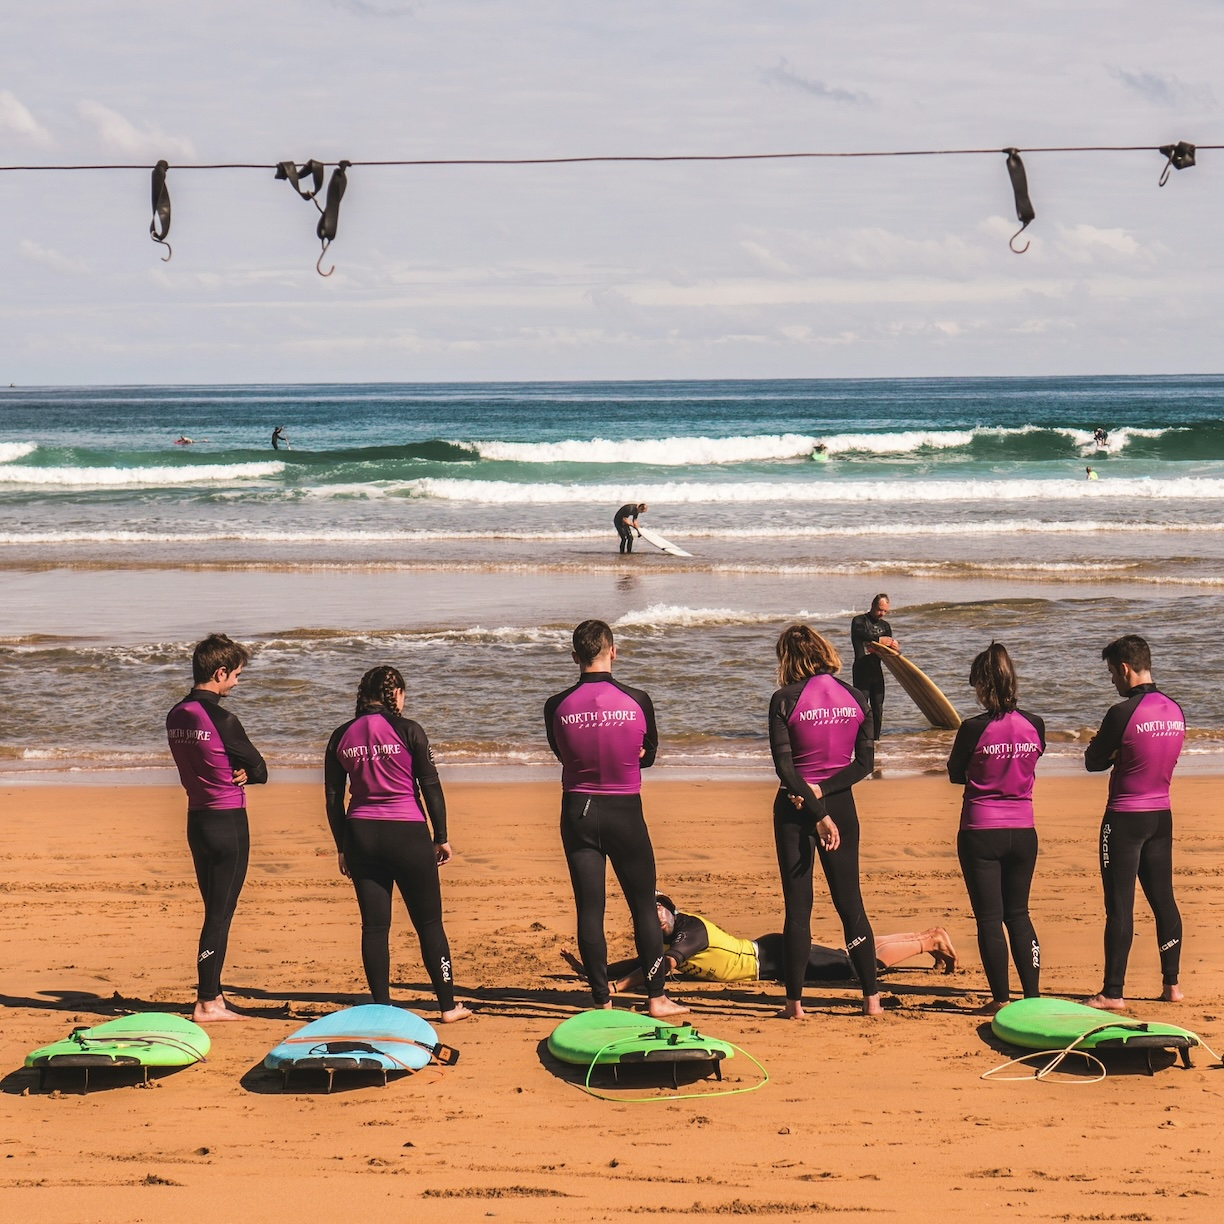
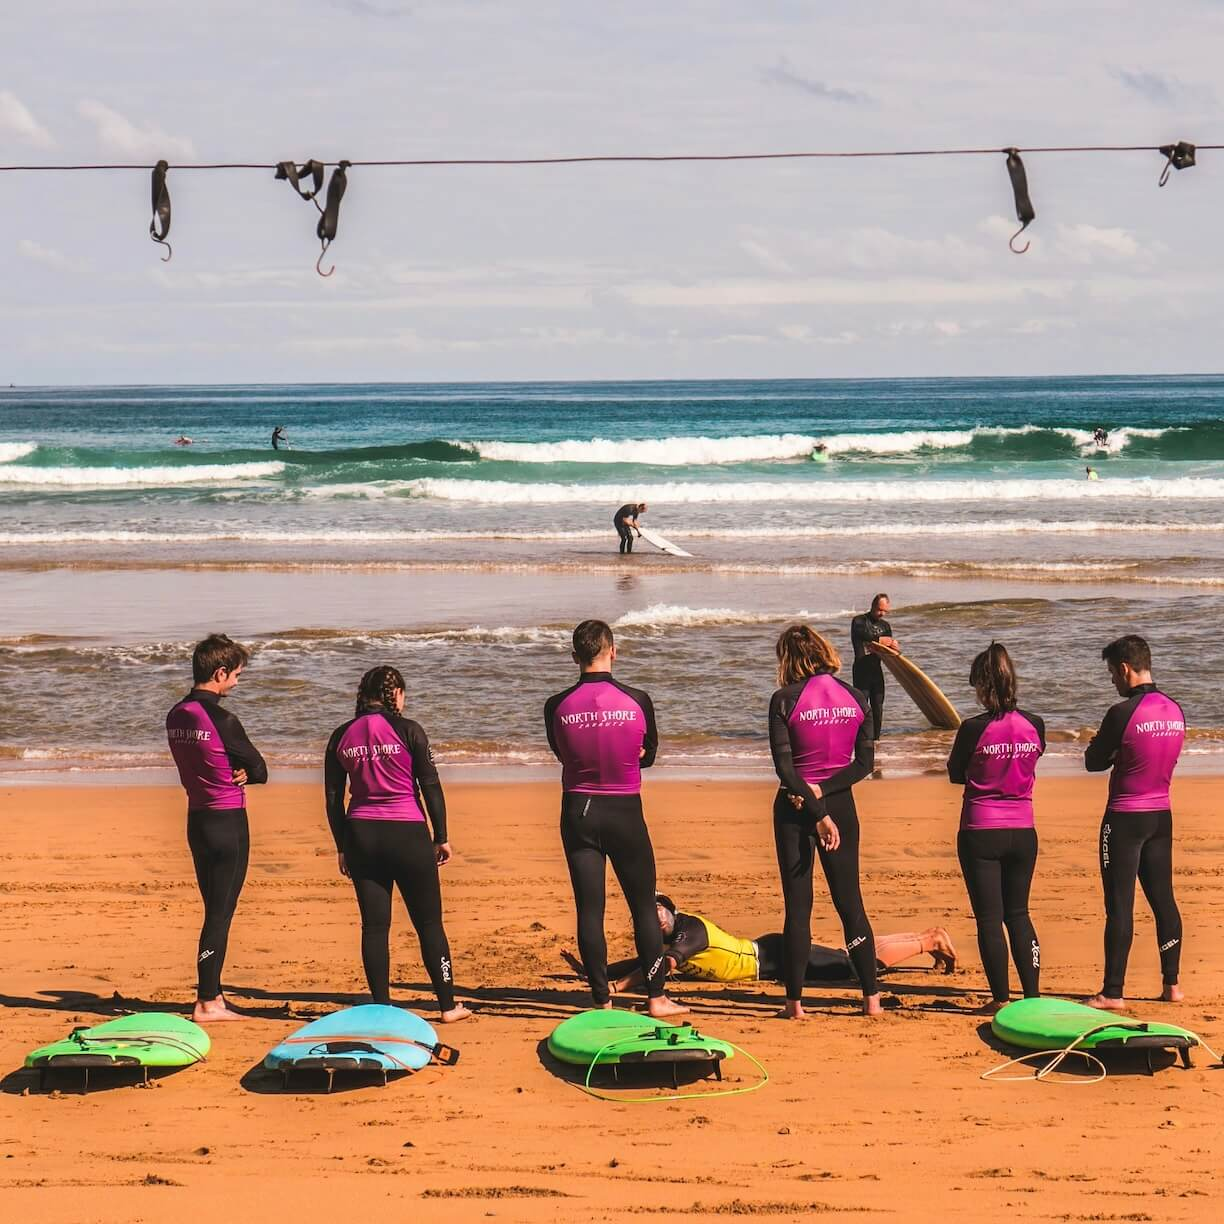
optimized image size for the services section

diff --git a/index.html b/index.html
@@ -154,7 +154,7 @@
                             </p>
                         </div>
                         <div class="card-footer">
-                            <p class="mb-0">Contact us!</p>
+                            <a href="equipment.html">Many options, more info here!</a>
                         </div>
                     </div>
                 </div>

diff --git a/assets/css/style.css b/assets/css/style.css
@@ -108,6 +108,11 @@ p {
     margin-bottom: 2rem;
 }
 
+#services .card-footer {
+    min-height: 65px !important;
+    align-content: center !important;
+}
+
 /* Booking page styling */
 #sign-up {
     margin-top: 76px;

diff --git a/README.md b/README.md
@@ -3,20 +3,22 @@ Kite Academy Stockholm is a website that aims to attract the attention of potent
 
 The main page states the purpose and beliefs of the Academy as an introduction, while displaying a set of inspiring images showing kite-surfing on water and on snow. The main page displays information about the range of services offered, the events planned. 
 
-The main page leads over to a second page focusing the equipment needed for kitesurfing. This page highlights how the Academy supports surfers in selecting and eventually acquiring their own equipment. Intersted parties can use a dedicated form to place an inquiry for assistance. 
+The main page leads over to a second page focusing the equipment needed for kitesurfing. This page highlights how the Academy supports surfers in selecting and eventually acquiring their own equipment. Intersted parties can use a dedicated form to place an inquiry for assistance.
+
+You can access the deployed webpage here [Kite Academy Stockholm](https://jnicolin.github.io/MS1-KiteAcademy/).
 
 ![Mockup image of the website on various devices](assets/screenshots/MockUp_Devices.png)
 
 # Table of Contents
-- [Site Owner Goals](#owner)
+- [Site Owner Goals](#Site)
 - [User stories](#User)
 - [Design](#design)
 - [Features](#features)
-- [Technology](#tech)
-- [Validation and Testing](#qa)
+- [Technology used](#Technology)
+- [Validation and Testing](#Validation)
 - [Deployment](#deployment)
 - [Credits](#Credits)
-- [Acknowledgment](#ack)
+- [Acknowledgments](#Acknowledgements)
 
 # Site owner goals
 - To promote and inspire about the practice of Kitesurfing in general
@@ -26,20 +28,20 @@ The main page leads over to a second page focusing the equipment needed for kite
 - To promote the Academy professionalism for potential partnerships with winter or summer resorts 
 
 # User stories
-## Kitesurfers 
-- To learn more about the Kitesurfing Academy scope and procedures
-- To find information about how to learn or improve on Kitesuring practices
-- To find information about kite equipment
-- To be informed about events organized by the Academy
-- To find information aboout how to contact the Academy and how to enroll in actvities
-## Trainers associated with the Academy
--  To know who has enrolled to events 
--  To know what level of experience enrolled students have
--  To know if there are any particular circumstances or requests placed by the students 
+## As a Kitesurfer, I want to 
+- learn more about the Kitesurfing Academy scope and procedures
+- find information about how to learn or improve on Kitesuring practices
+- find information about kite equipment
+- be informed about events organized by the Academy
+- find information aboout how to contact the Academy and how to enroll in actvities
+## As a Trainer associated with the Academy, I want to
+-  know who has enrolled to events 
+-  know what level of experience enrolled students have
+-  know if there are any particular circumstances or requests placed by the students 
 
-## Administrators with the Academy
--  To capture addresses and personal details about those enrolling, to target them with correct information and invoicing
--  To capture consent to engage in further communication, promoting loyalty
+## As an Administrators engaged with the Academy, I want to
+-  capture addresses and personal details about those enrolling, to target them with correct information and invoicing
+-  capture consent to engage in further communication, promoting loyalty
   
 # Design
 ## Images
@@ -130,6 +132,11 @@ Result
 
 No remaining bugs. All testcases passed OK!
 
+### Testing for responsiveness
+Cross-browser testing was done to validate the responsiveness of the website accross different screensizes and positions. Tools like Chrome Inspect and the dedicated Responsinator.com were used. 
+
+Testing for responsiveness passed OK!
+
 ## Automated testing
 
 ### Validator testing
@@ -205,6 +212,9 @@ The deployed site is available via this [Link](https://jnicolin.github.io/MS1-Ki
 - Kelsey Chance
 
 [Openart AI for generating images](https://openart.ai)
+- Two of the photos under section "Services" of the main page were AI-generated using Openart AI's prompting.
+1. Trainings
+2. Equipment
 
 
 ## Resources used
